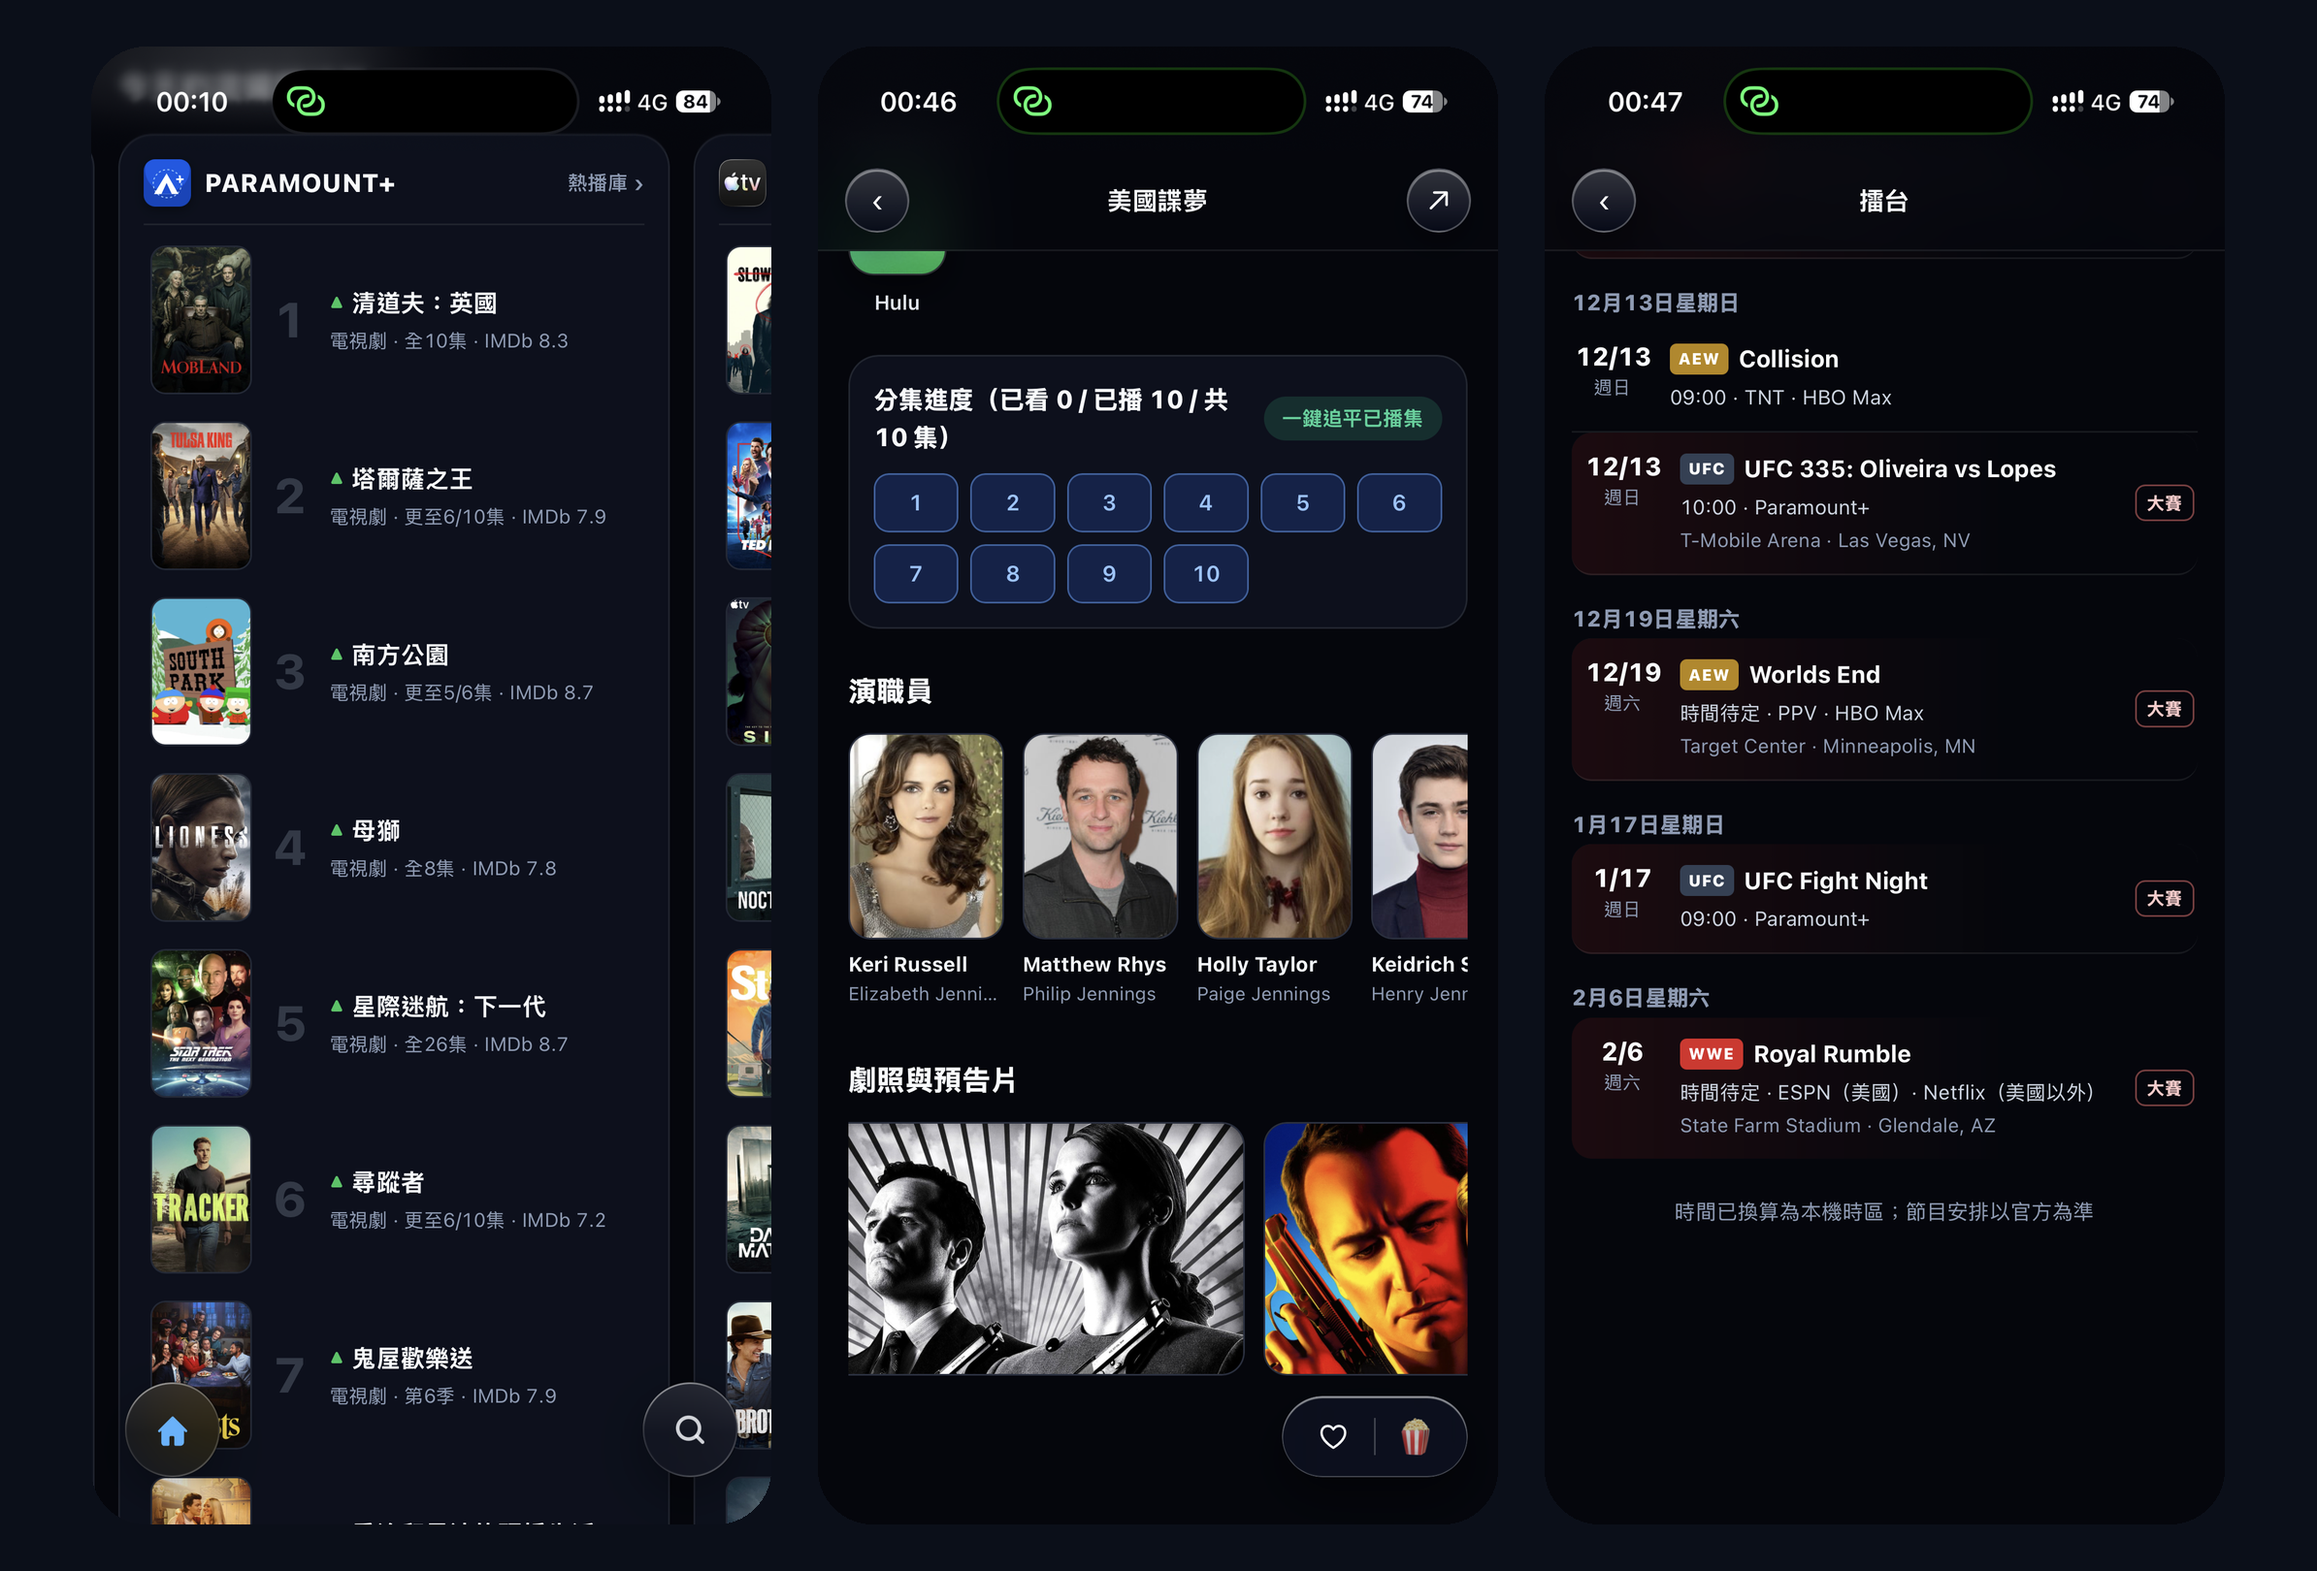
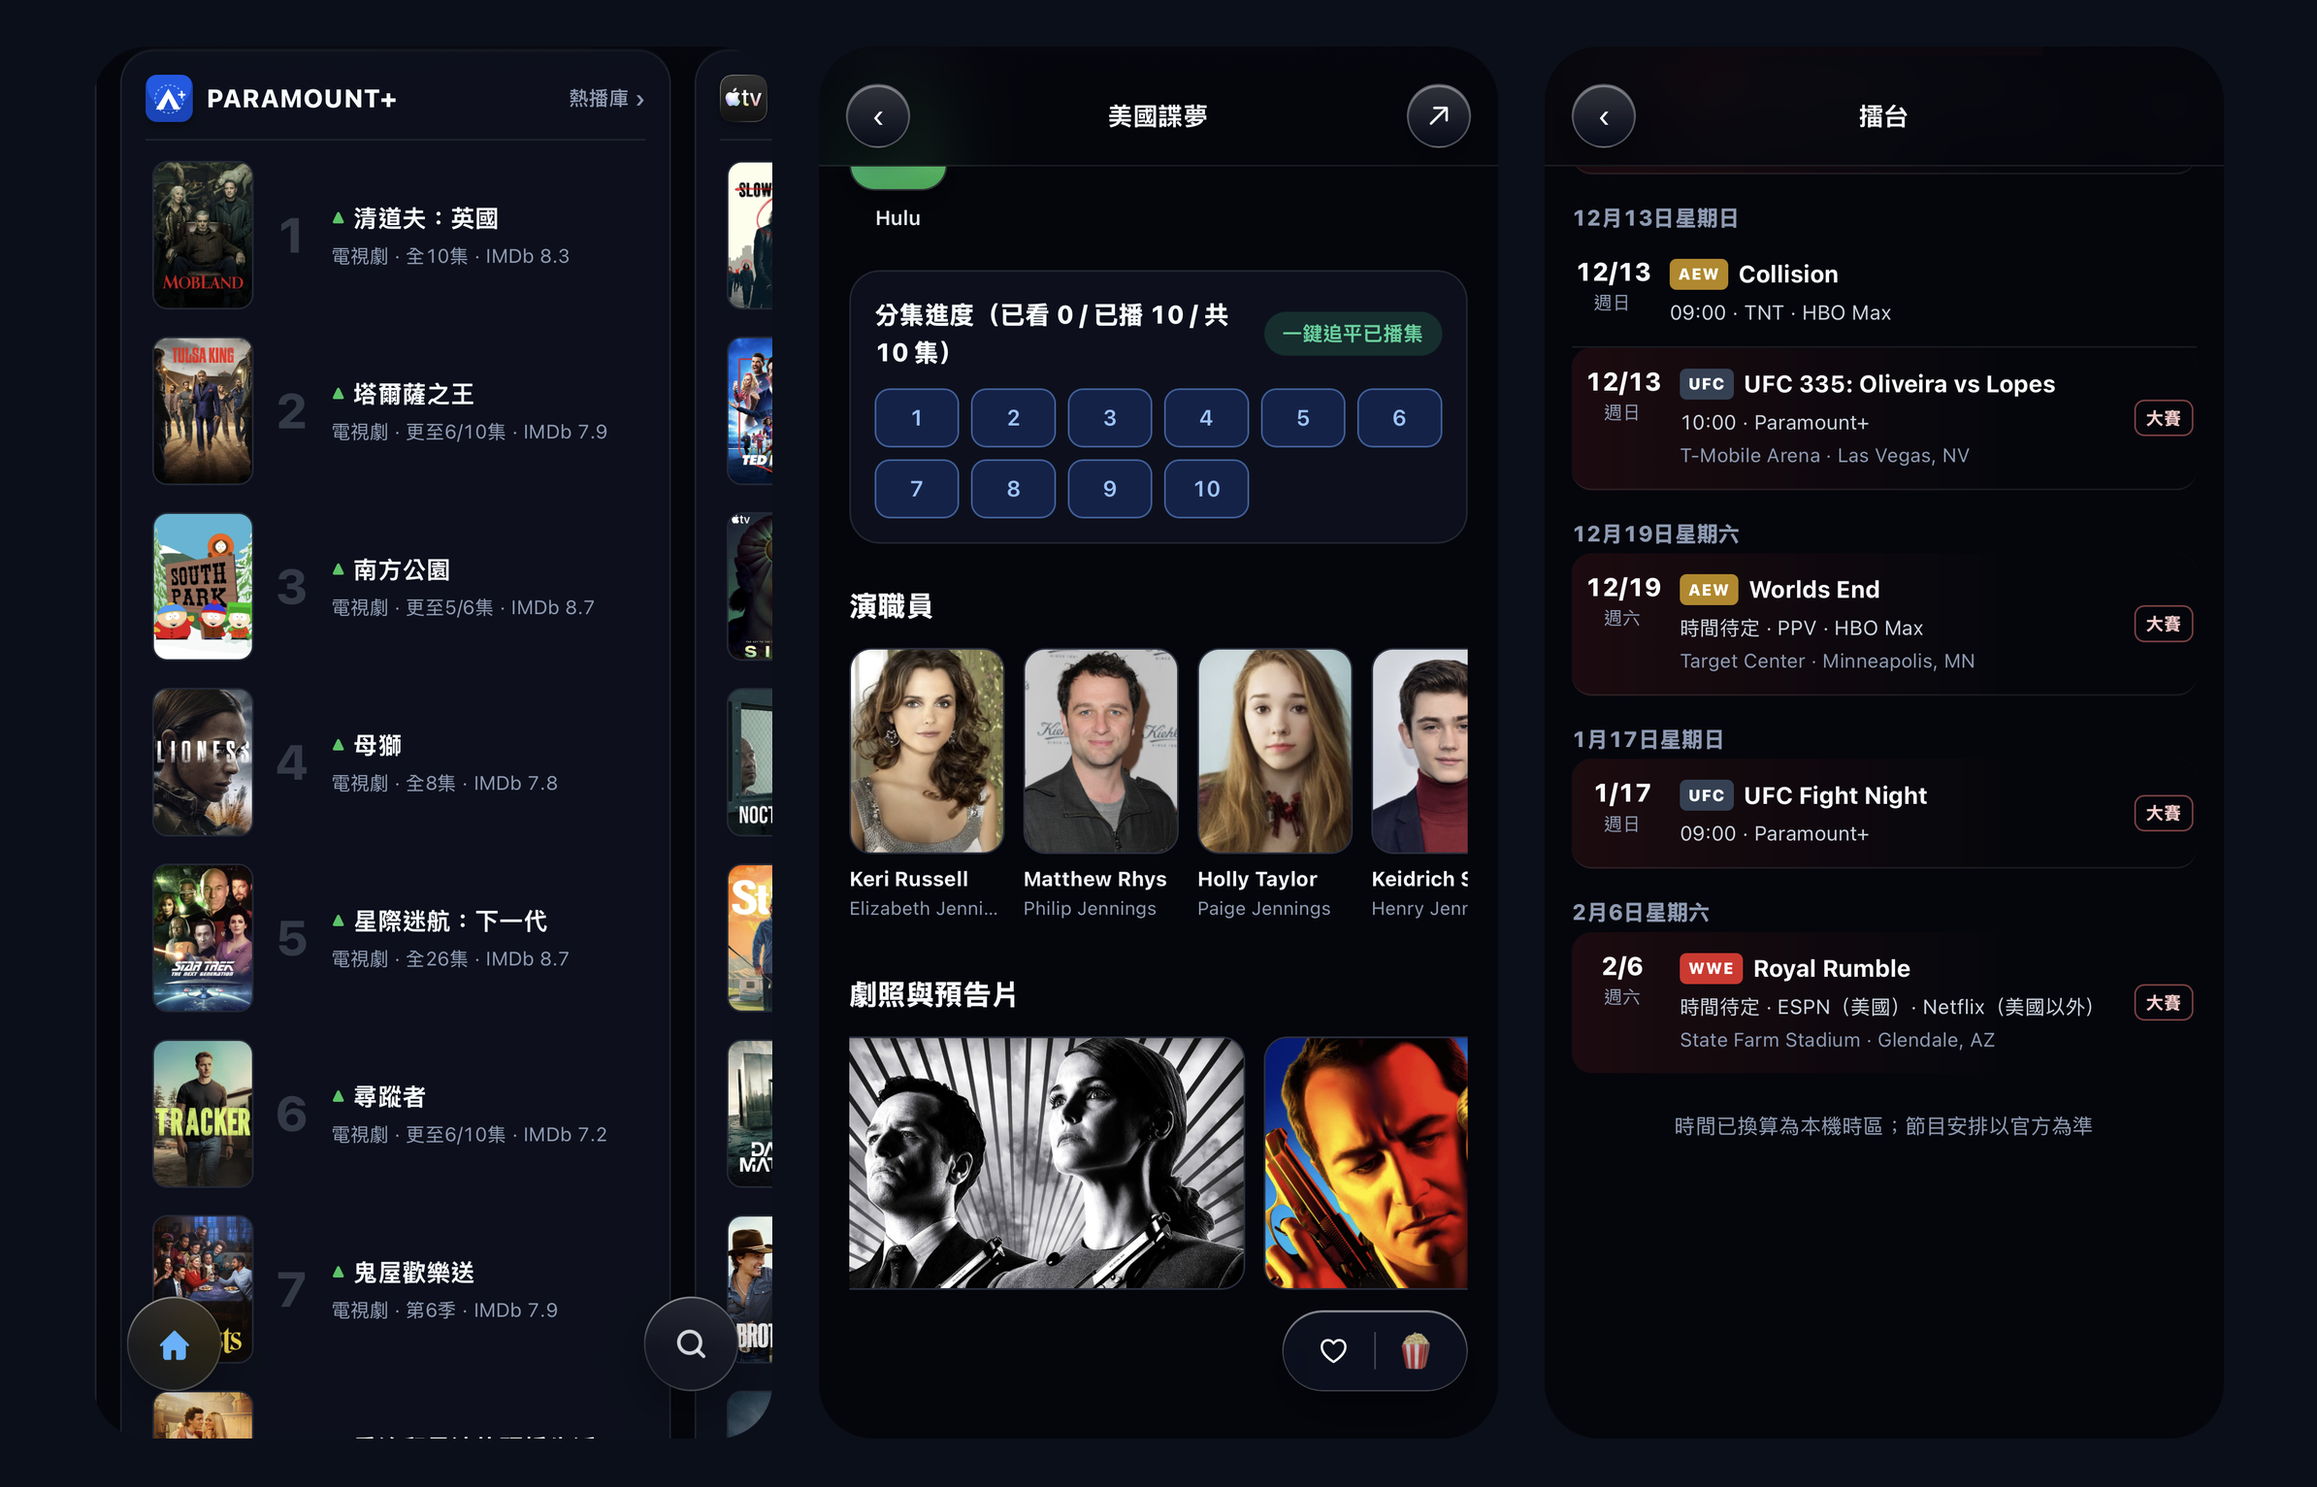
Dramov README: 精简说明文档，预览图去掉状态栏
- 感谢语改为 Gemini 4 Carbon 与 Claude Opus 5.5
- 功能与更新日志不再出现第三方数据源与平台名称
- 预览图裁掉顶部时间、信号与灵动岛

Claude-Session: https://claude.ai/code/session_01B4fFEj8U3ZhAyJqCVcATEf

diff --git a/README.md b/README.md
@@ -1,6 +1,6 @@
 # Dramov
 
-感谢 **Gemini** 和 **Claude**，让我有机会把这款追剧、追片、追擂台的轻量应用一点点打磨出来；感谢 Apple Music 与 Apple TV，液态玻璃底栏、Top 10 排行和沉浸式详情页的设计灵感都来自它们～
+感谢 **Gemini 4 Carbon** 和 **Claude Opus 5.5**，让我有机会把这款追剧、追片、追擂台的轻量应用一点点打磨出来～
 
 访问地址：
 
@@ -12,20 +12,20 @@ https://dramov-tracker.vercel.app
 
 ### 1. 添加到手机主屏幕与电脑桌面
 
-- **iPhone / iPad / Android**：用系统自带 Safari 打开上方网址，点击底部「分享」按钮（向上箭头方框），选择「添加到主屏幕」，桌面即生成无浏览器地址栏的独立全屏应用图标，打开即显示上次同步的榜单、海报与演员表。
-- **Mac / Windows 电脑**：Mac Safari 点击顶部菜单栏「文件 → 添加到程序坞」，Chrome 或 Edge 点击地址栏右侧安装图标即可独立运行；
+- **iPhone / iPad**：用 Safari 打开上方网址，点击「分享」按钮，选择「添加到主屏幕」，即可获得无地址栏的全屏独立应用。
+- **Mac / Windows 电脑**：Mac Safari 选择「文件 → 添加到程序坞」，Chrome 或 Edge 点击地址栏右侧的安装图标即可独立运行。
 
-### 2. 跨端私钥云同步与本地备份
+### 2. 跨端云同步与本地备份
 
-- **GitHub 私密云同步**：进入「设置」页，填入勾选了 `gist` 权限的个人访问令牌（`ghp_...`），即可通过 [GitHub Gist] 私密仓库在手机、平板与电脑之间一键上传、下载并无损合并片单、追剧进度与首页频道顺序。
-- **多应用共用隔离**：支持与其他工具共用同一枚 Token，追剧进度独立存储在专属私密文件 `dramov-tracker-sync-v1.json` 中，互不干扰；同时在「设置」页保留本地 `.json` 备份文件的导出与导入。
+- **GitHub 私密云同步**：在「设置」页填入勾选了 `gist` 权限的个人访问令牌（`ghp_...`），即可在手机、平板与电脑之间一键上传、下载并合并片单与追剧进度。
+- **多应用共用隔离**：同一枚 Token 可与其他工具共用，Dramov 的数据独立存放在 `dramov-tracker-sync-v1.json` 中，互不干扰；「设置」页同时支持本地 `.json` 备份的导出与导入。
 
 ## 二、主要功能
 
-- **「每日流媒体榜 + 全网热播」双层榜单**：首页按 JustWatch 每日流媒体榜真实排名展示 Netflix、Disney+、HBO Max、Prime Video、Paramount+、Apple TV+、Hulu、Peacock 八大平台 Top 10，附升降趋势；「热播电视剧 / 热播电影」以大号排名 Top 10 横排呈现，另设港澳台、日韩两大地区专区。
-- **片库三档排序与全网搜索**：点击任意平台进入片库，可在「精选 / 最新 / 高分」间一键切换；顶部搜索框同时打通美区与台湾区片库，中文、英文片名均可秒搜，不在内置平台上的影片也能查到简介与正版播放平台。
-- **擂台赛程自动更新**：可选开启「擂台」频道，WWE、AEW、UFC 每周节目与大型赛事（含场馆、城市、观看平台）自动按所选时区换算显示，赛事数据每 6 小时自动刷新，无需手动维护。
-- **追剧进度、三语界面与液态玻璃底栏**：详情页支持分集打卡、一键追平与演员表、剧照预告；界面支持繁體中文（默认）/ 简体中文 / English 三语切换与深浅色模式，底部液态玻璃导航栏下滑自动收缩为 Apple Music 式双圆钮。
+- **每日热播榜**：首页按各大流媒体平台每日真实排名展示 Top 10 与升降趋势，另设热播电视剧、热播电影、港澳台与日韩专区，频道可自由排序与开关。
+- **片库与全网搜索**：进入任意平台片库，可在「精选 / 最新 / 高分」间切换；搜索不限内置平台，中英文片名都能查到简介与可观看的平台。
+- **擂台赛程**：可选开启「擂台」频道，WWE、AEW、UFC 的每周节目与大型赛事按所选时区显示，每 6 小时自动刷新。
+- **追剧进度与三语界面**：详情页支持分集打卡、一键追平、演员表与剧照预告；支持繁體中文（默认）/ 简体中文 / English 与深浅色模式，底部液态玻璃导航栏下滑自动收缩。
 
 ![Dramov 界面预览](./assets/preview.png)
 
@@ -33,14 +33,14 @@ https://dramov-tracker.vercel.app
 
 ### 2026-11-22
 
-- **v14**：全网搜索接入 JustWatch 双区片库并自动搜索；擂台列按榜单高度铺满；海报卡住时自动换尺寸重拉。
-- **v13**：擂台赛程接入 TheSportsDB 每 6 小时自动更新，设置新增「赛程时区」，三个页面底部留白收紧。
-- **v12**：新增 Hulu、Peacock、港澳台、日韩与擂台频道，Top 10 改用每日流媒体榜排名并显示真实升降趋势。
-- **v11**：底栏收缩动画、片库「精选 / 最新 / 高分」排序与点击修复、首页 Top 10 排名横排、三语界面。
+- **v14**：搜索不限内置平台并支持自动搜索；擂台列按榜单高度铺满；海报加载卡住时自动重拉。
+- **v13**：擂台赛程每 6 小时自动更新，设置新增「赛程时区」，页面底部留白收紧。
+- **v12**：新增两个流媒体平台与港澳台、日韩、擂台频道，Top 10 改用每日真实排名并显示升降趋势。
+- **v11**：底栏收缩动画、片库三档排序与点击修复、首页 Top 10 横排、三语界面。
 
 ### 2026-11-21
 
-- **v10**：液态玻璃底栏重做，类型名称中文化，修复海报匹配与占位图问题，终端脚本一键推送 GitHub 并部署 Vercel。
-- **v8-v9**：首页改版为 Top 5 巨幅竖版新剧海报与六大平台 Top 10 热榜。
-- **v2-v7**：接入 JustWatch 实时热度、详情页演职员与播放来源，完成 [GitHub Gist] 私密云同步与平台排序隐藏。
-- **v1**：完成 Dramov 影视追踪单页原型，支持主屏幕全屏安装与离线缓存。
+- **v10**：液态玻璃底栏重做，修复海报匹配与占位图问题，一键脚本推送 GitHub 并部署。
+- **v8-v9**：首页改版为巨幅竖版新剧海报与平台 Top 10 热榜。
+- **v2-v7**：接入实时热度、详情页演职员与播放来源，完成私密云同步与平台排序隐藏。
+- **v1**：完成 Dramov 单页原型，支持主屏幕全屏安装与离线缓存。
